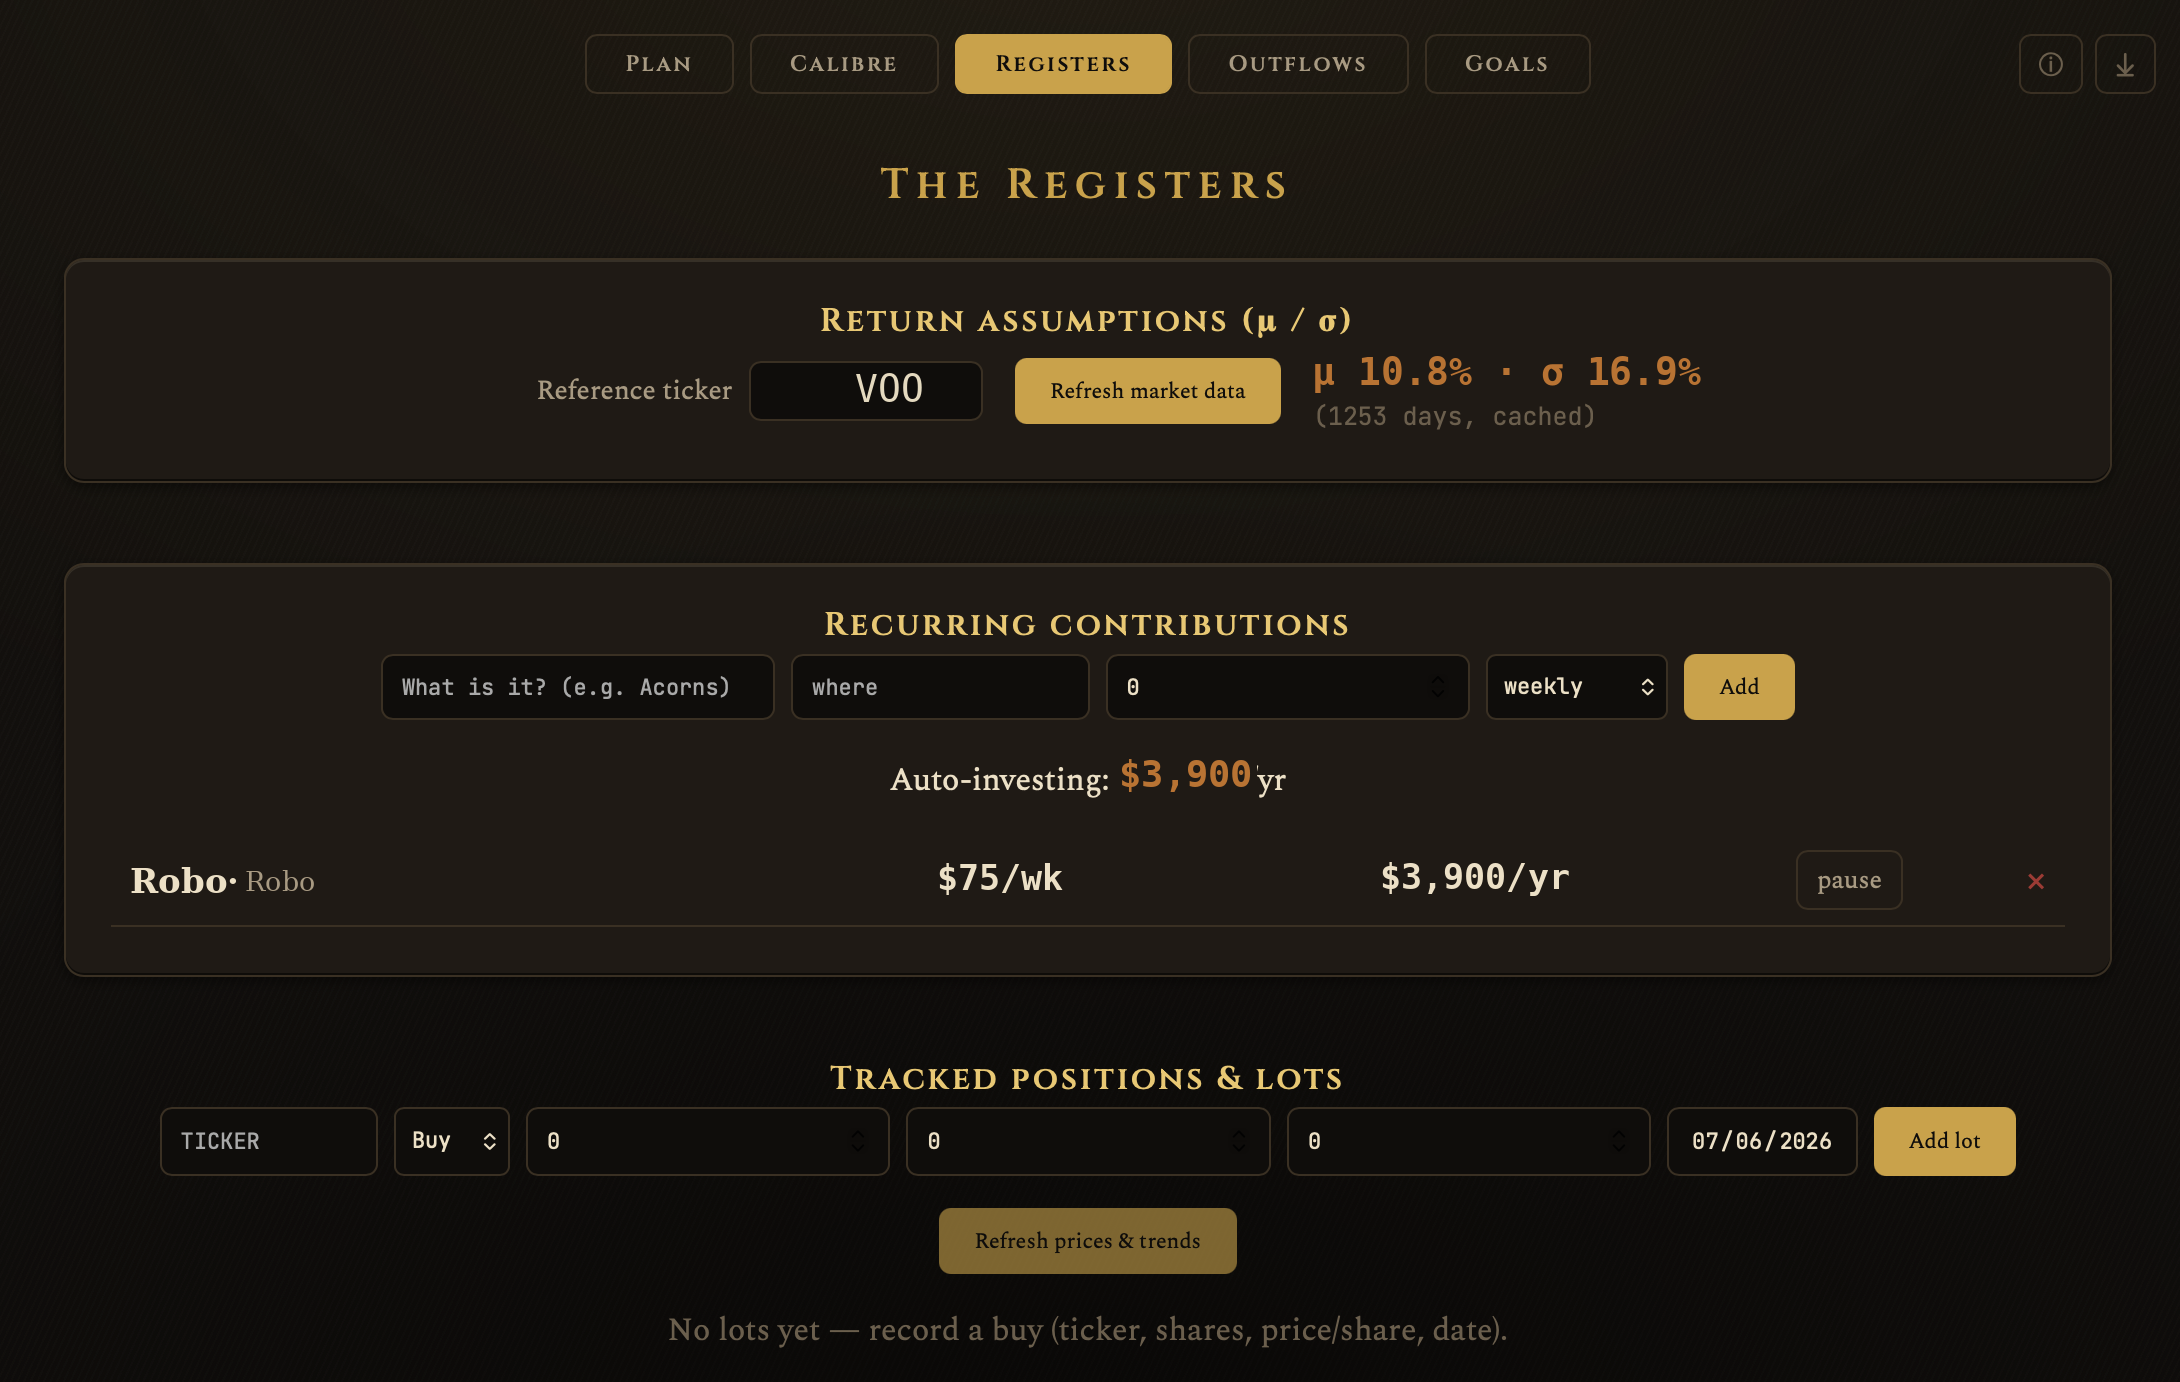
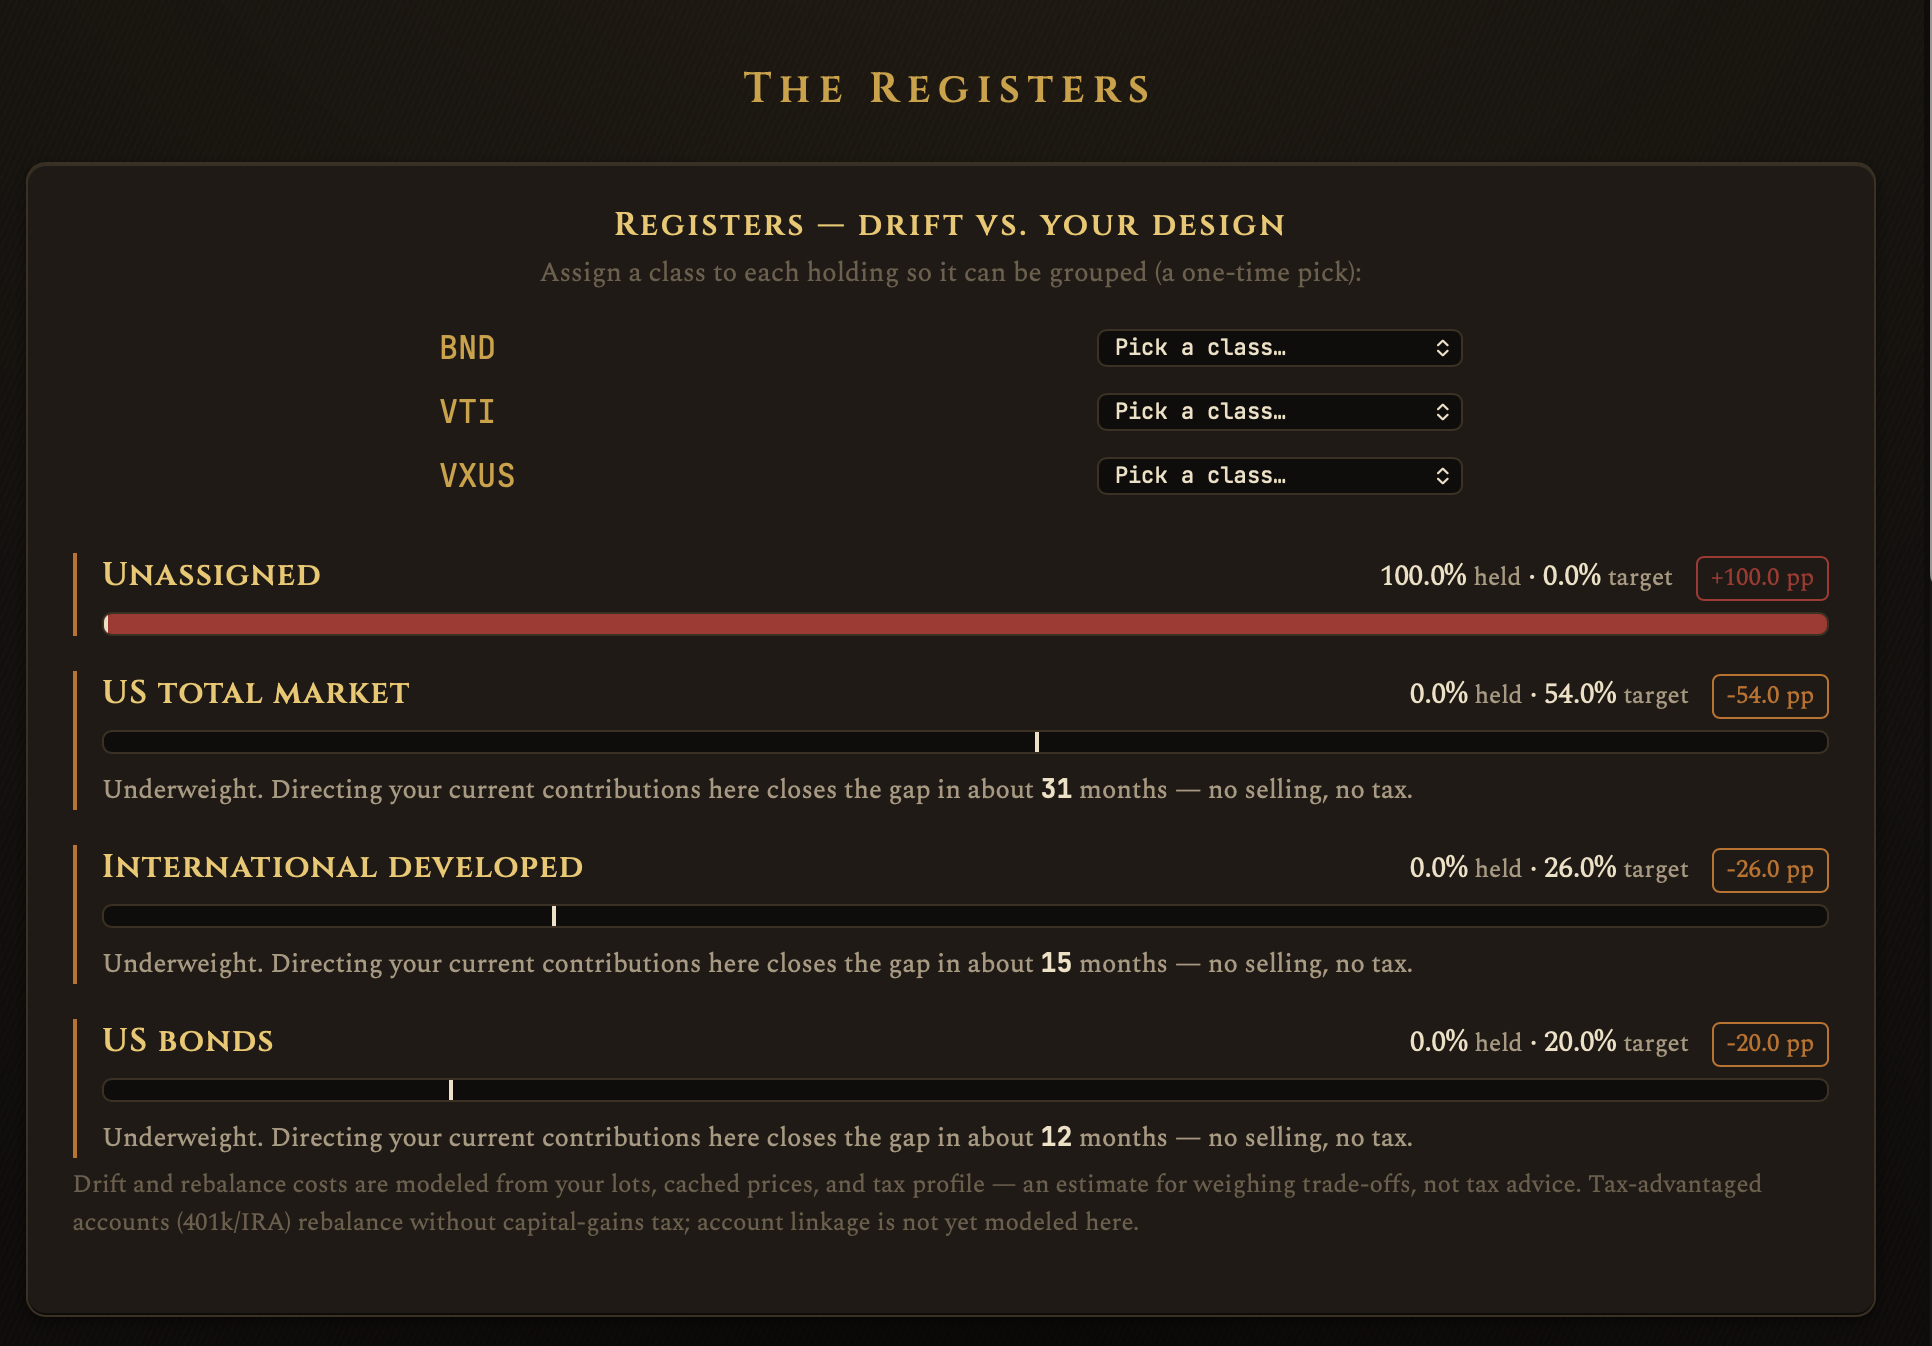
docs: swap in the Registers drift-vs-design capture + retune its caption
registers1 now shows the drift panel — held-vs-target bars, drift flagged in
percentage points, the one-time class picker, and the no-sell contribution
paths. Rewrite the caption and alt text to lead with the drift view.

diff --git a/README.md b/README.md
@@ -46,8 +46,8 @@ Turn any dial and the vitals, the forecast, and your freedom date all move toget
 ### The Registers — track what you actually hold, against the design
 
 <p align="center">
-  <img src="assets/registers1_redacted.png" alt="The Registers — return assumptions, recurring contributions, and tracked positions" width="820"><br>
-  <sub><b>The Registers.</b> Track what you invest: a reference ticker's local price history sets the forecast's μ/σ, recurring auto-contributions (Acorns, a robo-advisor) feed the net-worth projection, and share-by-share lots carry cost basis and realized gains. Record positions and tag each with an asset class, and the top panel regroups them by class to flag <b>drift</b> from your Calibre — offering a no-sell contribution path or a to-the-cent tax cost to trim. · <i>Figures redacted; values AI-generated.</i></sub>
+  <img src="assets/registers1_redacted.png" alt="The Registers — holdings regrouped by asset class with drift flagged against the designed mix" width="820"><br>
+  <sub><b>The Registers.</b> Your holdings regrouped by asset class and read against the mix you designed in the Calibre — held-vs-target bars with <b>drift</b> flagged in percentage points, and off-plan or unassigned holdings called out. Each drifted class gets the cheaper fix: a no-sell contribution path for underweights, or a to-the-cent capital-gains cost to trim an overweight. A one-time picker maps each ticker to a class; elsewhere on the tab a reference ticker sets the forecast's μ/σ and recurring auto-contributions feed the projection. Modeled from your lots, cached prices, and tax profile — not tax advice. · <i>Figures redacted; values AI-generated.</i></sub>
 </p>
 
 ### Outflows &amp; Goals — what leaves, and what you're building toward
